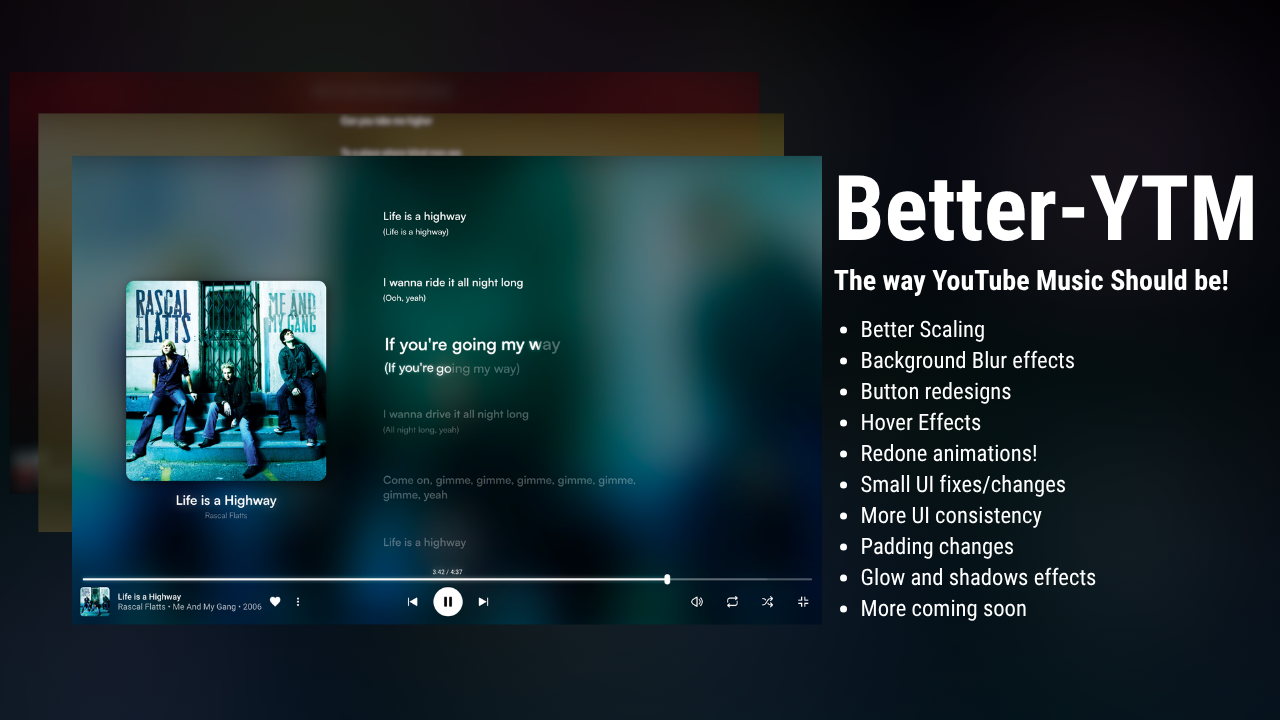
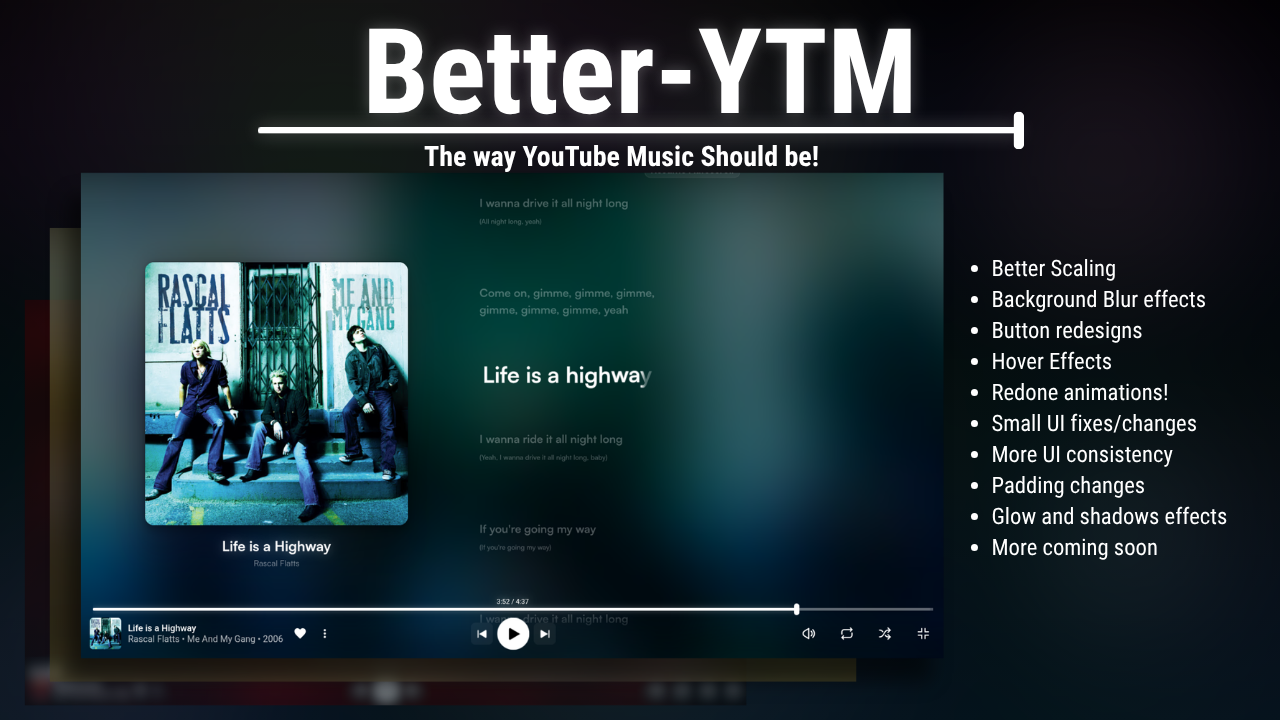
ver 2.2.0, more animations!

diff --git a/style.css b/style.css
@@ -1,4 +1,4 @@
-/* BETTER YTM 2.0!!! */
+/* Better YTM, A theme by WolftheE ^w^ */
 
 /* Hey there, feel free to edit this or use this theme as a base
 If you have any sugestions, tell me on discord. Just ping @wolfthee on the blyrics discord server!
@@ -8,9 +8,14 @@ Credits goes to
 https://github.com/ramansg/Minimal/tree/main
 https://github.com/tposejank/blyrics-am-theme
 https://github.com/chengggit/YouTube-Music-Dynamic-Theme
+
+
+
+Blyrics Varables */
+/*
+blyrics-line-synced-animation-delay = 100;
+blyrics-long-word-threshold = 1000;
 */
-
-
 
 :root {  
   
@@ -19,19 +24,26 @@ https://github.com/chengggit/YouTube-Music-Dynamic-Theme
 
   /*The glow effect used, change this or remove it if you like! Also the main button color*/ 
   --glow: rgba(255,255,255,0.35); 
-  --main-color: white;
-  --main-font-color: black;
+  --hover-color: white; /* This is used as the hover colour in some parts*/ 
+  --hover-font-color: black;
+  --radius: 10px;
+
+  --normal-button: rgba(255,255,255,0.1); 
 
   --alt-color: #f03;
+
+
+  --popup-background: rgba(255,255,255,0.15);
+
 
 
   /* blyrics config, feel free to edit this */
   --blyrics-footer-bg-color: transparent;
   --blyrics-footer-border-color: transparent;
   --blyrics-active-scale: 1.0;
-  --blyrics-scale: 0.55;
+  --blyrics-scale: 0.5;
   --blyrics-line-height: 1.5;
-  --blyrics-font-size: 3.5rem;
+  --blyrics-font-size: 4rem;
   --blyrics-font-weight: 650;
   --smaller-lyrics-size: 0.6em;
 
@@ -59,7 +71,7 @@ https://github.com/chengggit/YouTube-Music-Dynamic-Theme
 
 }
 /* ================================= */
-/* Blyrics css mods */
+/* Blyrics changes */
 /* ================================= */
 
 /* Cloud like animation */
@@ -93,7 +105,7 @@ https://github.com/chengggit/YouTube-Music-Dynamic-Theme
 }
 
 .blyrics--word.blyrics--animating { /* Holds the synced lyric on longer notes */
-  animation: blyrics-wobble max(calc(var(--blyrics-duration)), 0.7s) forwards ease; 
+  animation: blyrics-wobble calc(max(calc(var(--blyrics-duration)), 0.5s) * 1.2) forwards ease; 
   animation-delay: var(--blyrics-anim-delay);
 }
 
@@ -219,6 +231,23 @@ ytmusic-player-page:before { /* Cool blured background with Blyrics! */
 }
 
 /* =========== The Main part, the Album art ==================*/
+
+@keyframes grow-into-place {
+0% {
+    transform: translate3d(50%, 40%, 0) scale(.5);
+    opacity: .000001;
+}
+
+30% {
+    transform: translate3d(50%, 40%, 0) scale(.5);
+    opacity: .000001;
+}
+100% {
+    transform: translate3d(0, 0, 0) scale(1);
+    opacity: 1;
+}
+}
+
 ytmusic-player-page:not([is-mweb-modernization-enabled]):not([video-mode]) #player.ytmusic-player-page {
   max-width: 80% !important;
   box-shadow: 5px 5px 20px rgba(0,0,0,0.5);          
@@ -232,14 +261,40 @@ ytmusic-player[is-mweb-player-page-modernization-enabled]:not([video-mode]) {bor
   background: rgba(0,0,0,0.5); 
 }
 
+/* video toggle for the pay to win users - PS I can't fully test as I'm a broke user :( */
+.av-toggle.ytmusic-av-toggle {
+    height: 32px;
+    background-color: rgba(255,255,255,0.05);
+    border-radius: var(--radius) !important;
+}
+.song-button.ytmusic-av-toggle, .video-button.ytmusic-av-toggle {
+  border-radius: var(--radius) !important;
+  background-color: transparent;
+}
+.ytmusic-av-toggle[playback-mode=ATV_PREFERRED] .song-button.ytmusic-av-toggle {
+  background-color: rgba(255,255,255,0.15);
+}
+
 /* =========== Sidebar of the album ==================*/
 
+ytmusic-player-queue-item, ytmusic-responsive-list-item-renderer[height-style=MUSIC_RESPONSIVE_LIST_ITEM_HEIGHT_MEDIUM_COMPACT], ytmusic-responsive-list-item-renderer[is-playlist-detail-page], ytmusic-responsive-list-item-renderer[is-album-detail-page] {
+  transition: background-color 0.2s ease-out; /* Hover effect for songs */
+  border-radius: var(--radius);
+  padding: 4px 8px;
+
+  &:hover {
+    background-color: rgba(255,255,255,0.05);
+  }
+}
+
+
 ytmusic-responsive-list-item-renderer[play-button-state=paused], ytmusic-player-queue-item[play-button-state=loading], ytmusic-player-queue-item[play-button-state=playing], ytmusic-player-queue-item[play-button-state=paused] {
-  box-shadow: 3px 3px 8px rgba(0,0,0,0.5); /* Adds fancy selected song in the song tab*/
+  box-shadow: 3px 3px 8px rgba(0,0,0,0.2); /* Adds fancy selected song in the song tab*/
   overflow: visible;
   border-radius: 8px;
-  margin-right: 6px;
+  padding: 4px 8px;
 } 
+
 ytmusic-player-queue-item {border-bottom: none;} /*Removed border*/
 
 #tab-renderer { /* Fade out effect */
@@ -304,12 +359,36 @@ ytmusic-app-layout[is-bauhaus-sidenav-enabled] #mini-guide-background.ytmusic-ap
 ytmusic-app[is-bauhaus-sidenav-enabled] #guide-wrapper.ytmusic-app {
   background: rgba(0,0,0,0.3); 
   backdrop-filter: blur(20px);
+  transition: width 0.5s ease-out;
+  overflow: hidden;
 }
 #layout[player-ui-state="PLAYER_PAGE_OPEN"] #guide-wrapper{ /* ensure sidebar stays transparent with media player open */ backdrop-filter: none;}
 ytmusic-guide-entry-renderer[active] tp-yt-paper-item.ytmusic-guide-entry-renderer {box-shadow: 0px 4px 6px rgba(0,0,0,0.3);}
 #items.ytmusic-guide-section-renderer {padding: 6px !important;}
 
 ytmusic-guide-section-renderer {padding: 0;}
+
+tp-yt-paper-item.ytmusic-guide-entry-renderer {
+  border-radius: var(--radius);
+  transition: background-color 0.3s ease-out, scale 0.6s ease-out, color 0.3s ease-out, box-shadow 0.4s ease-in-out, scale 0.2s ease-out;
+}
+
+tp-yt-paper-item.ytmusic-guide-entry-renderer:active {
+  scale: 0.9;
+}
+
+tp-yt-paper-item.ytmusic-guide-entry-renderer:hover, ytmusic-guide-entry-renderer[active] tp-yt-paper-item.ytmusic-guide-entry-renderer:hover {
+  background-color: var(--hover-color);
+  color: var(--hover-font-color);
+
+  & * {
+    color: var(--hover-font-color) !important;
+  }
+}
+
+ytmusic-guide-entry-renderer[active] tp-yt-paper-item.ytmusic-guide-entry-renderer:hover {
+  box-shadow: 0px 5px 10px var(--glow);
+}
 
 /* Navbar */
 .search-container.ytmusic-search-box { /* Fixes some visual bugs with the search bar */ overflow: visible;}
@@ -340,6 +419,61 @@ ytmusic-nav-bar[is-bauhaus-sidenav-enabled] .center-content.ytmusic-nav-bar { /*
   width: 100vw;
 }
 
+ytmusic-search-box[opened]:has(ytmusic-search-suggestion) .search-box, ytmusic-search-box[opened]:has(ytmusic-responsive-list-item-renderer) .search-box, ytmusic-search-box[is-bauhaus-sidenav-enabled][opened] .search-box.ytmusic-search-box {
+  border-radius: var(--radius) var(--radius) 0 0 !important;  /* Make sure search bar follows border radius */
+  border: 1px solid rgba(255,255,255,0.15);
+  &:hover {
+    background-color: black !important;
+    color: white !important;
+  }
+}
+
+/* Search Dropdown List Container - Credit goes to Drago and his Lucid theme */
+ytmusic-search-box #suggestion-list {
+  border-radius: 0 0 var(--radius) var(--radius) !important; 
+  box-shadow: 0 20px 40px rgba(0, 0, 0, 0.7) !important;
+  padding: 0 !important; 
+  margin-top: 0 !important;
+  opacity: 0 !important; 
+  visibility: hidden !important;
+  transform: scaleY(0.25) !important; 
+  transform-origin: top !important; 
+  pointer-events: none !important; 
+  display: block !important;
+  transition: opacity 0.2s cubic-bezier(0.2, 0.8, 0.2, 1), transform 0.35s cubic-bezier(0.2, 0.8, 0.2, 1), visibility 0.2s !important;
+}
+
+ytmusic-search-box[opened]:has(ytmusic-search-suggestion) #suggestion-list, ytmusic-search-box[opened]:has(ytmusic-responsive-list-item-renderer) #suggestion-list {
+  opacity: 1 !important; 
+  visibility: visible !important;
+  transform: scaleY(1) !important; 
+  pointer-events: auto !important; 
+}
+
+ytmusic-search-box:not(:has(ytmusic-search-suggestion)):not(:has(ytmusic-responsive-list-item-renderer)) #suggestion-list { 
+  display: none !important; 
+}
+
+ytmusic-search-box #suggestion-list ytmusic-search-suggestions-section {
+  background: transparent !important; 
+  border: none !important; 
+  box-shadow: none !important; 
+  padding: 8px 0 !important; 
+}
+
+ytmusic-search-suggestion:hover, 
+ytmusic-search-suggestion[selected], 
+ytmusic-search-box #suggestion-list ytmusic-responsive-list-item-renderer:hover {
+  background-color: var(--hover-color) !important;
+  color: var(--hover-font-color) !important;
+
+  & * {
+    color: var(--hover-font-color);
+  }
+}
+
+
+
 ytmusic-nav-bar[is-bauhaus-sidenav-enabled][is-search-page] .center-content.ytmusic-nav-bar { /* Center Search bar */ 
     position: absolute;
     width: 100%;
@@ -348,9 +482,20 @@ ytmusic-nav-bar[is-bauhaus-sidenav-enabled][is-search-page] .center-content.ytmu
     transform: none;
     padding-left: 0;
 }
+
+ytmusic-search-suggestion, 
+ytmusic-search-box #suggestion-list ytmusic-responsive-list-item-renderer {
+  background: transparent !important; 
+  border-radius: 8px !important; 
+  margin: 0 8px !important; 
+  transition: background-color 0.2s ease !important;
+}
+
+
+
 ytmusic-nav-bar[is-bauhaus-sidenav-enabled] {justify-content: space-between;}
 
-ytmusic-tabs.stuck {
+ytmusic-tabs.stuck { /* fix tab bar when searching on ytm */
     transition: transform 0.5s ease-out;
     background-color: rgba(255,255,255,0.0);
     border-radius: 8px;
@@ -400,8 +545,8 @@ ytmusic-player-bar[is-web-delhi-icons-enabled] .left-controls.ytmusic-player-bar
 .play-pause-button { /* Make the Play button diffrent */
   width: 52px !important;
   height: 52px !important;
-  background: var(--main-color) !important;
-  color: var(--main-font-color) !important;
+  background: var(--hover-color) !important;
+  color: var(--hover-font-color) !important;
   border-radius: 50% !important;
   & button {scale: 0.8;}
 }
@@ -430,8 +575,8 @@ ytmusic-player-bar[is-web-delhi-icons-enabled] yt-icon-button.ytmusic-player-bar
     border-radius: 8px;
     box-shadow: 0px 0px 15px var(--glow);
     scale: 1.1;
-    color: var(--main-font-color) !important;
-    background: var(--main-color) !important;
+    color: var(--hover-font-color) !important;
+    background: var(--hover-color) !important;
   }
 
   &:active {scale: 0.9;}
@@ -494,17 +639,17 @@ ytmusic-nav-bar[is-bauhaus-sidenav-enabled] .right-content.ytmusic-nav-bar {padd
 /* Buttons and Context Menus */
 /* ================================= */
 
-ytmusic-chip-cloud-chip-renderer[chip-style=STYLE_LARGE_TRANSLUCENT_AND_SELECTED_WHITE] a.ytmusic-chip-cloud-chip-renderer,.yt-spec-button-shape-next--mono.yt-spec-button-shape-next--tonal, ytmusic-chip-cloud-chip-renderer[chip-style=STYLE_UNKNOWN] a.ytmusic-chip-cloud-chip-renderer, ytmusic-chip-cloud-chip-renderer[chip-style=STYLE_DEFAULT] a.ytmusic-chip-cloud-chip-renderer, ytmusic-chip-cloud-chip-renderer[chip-style=STYLE_ICON_SECOND] a.ytmusic-chip-cloud-chip-renderer, ytmusic-search-box[is-bauhaus-sidenav-enabled]:not([opened]):not([has-query]) .search-box.ytmusic-search-box, .yt-spec-button-shape-next--size-m.yt-spec-button-shape-next--outline, yt-icon-button.ytmusic-carousel-shelf-renderer, button.ytmusic-sort-filter-button-renderer {
-  border-radius: 8px !important;
-  background-color: rgba(255, 255, 255, .1);
-  border: none ;
+ytmusic-chip-cloud-chip-renderer[chip-style=STYLE_LARGE_TRANSLUCENT_AND_SELECTED_WHITE] a.ytmusic-chip-cloud-chip-renderer,.yt-spec-button-shape-next--mono.yt-spec-button-shape-next--tonal, ytmusic-chip-cloud-chip-renderer[chip-style=STYLE_UNKNOWN] a.ytmusic-chip-cloud-chip-renderer, ytmusic-chip-cloud-chip-renderer[chip-style=STYLE_DEFAULT] a.ytmusic-chip-cloud-chip-renderer, ytmusic-chip-cloud-chip-renderer[chip-style=STYLE_ICON_SECOND] a.ytmusic-chip-cloud-chip-renderer, ytmusic-search-box[is-bauhaus-sidenav-enabled]:not([opened]):not([has-query]) .search-box.ytmusic-search-box, .yt-spec-button-shape-next--size-m.yt-spec-button-shape-next--outline, yt-icon-button.ytmusic-carousel-shelf-renderer, button.ytmusic-sort-filter-button-renderer, ytmusic-search-box[is-bauhaus-sidenav-enabled] .search-box.ytmusic-search-box {
+  border-radius: var(--radius) !important;
+  background-color: rgba(255, 255, 255, 0.1);
+  border: none;
   transition: background-color 0.5s ease-out, color 0.5s ease-out, scale 0.3s ease-out;
   overflow: visible !important;
   box-shadow: 3px 3px 5px rgba(0,0,0,0.2);
   will-change: background-color, scale, color;
   &:hover {
-    background-color: var(--main-color) !important;
-    color: var(--main-font-color) !important;
+    background-color: var(--hover-color) !important;
+    color: var(--hover-font-color) !important;
     transition: background-color 0.2s ease-out, color 0.2s ease-out, scale 0.2s ease-out;
   }
   &:active {scale: 0.95;}
@@ -544,10 +689,21 @@ tp-yt-paper-item.ytmusic-menu-service-item-download-renderer {--paper-item-min-h
 ytmusic-browse-response[has-background]:not([disable-gradient]) .background-gradient.ytmusic-browse-response {border-top: 1px solid rgba(255,255,255,0.15);}
 .category-menu-item.iron-selected.ytmusic-settings-page {background: rgba(255,255,255,0.1) !important;}
 
+ytmusic-search-box[has-query] input.ytmusic-search-box, ytmusic-search-box[opened] input.ytmusic-search-box {
+    color: unset; /* fixes some visual bugs */
+}
 
 /* ================================= */
 /* Homepage stuff */
 /* ================================= */
+
+#content-wrapper.ytmusic-browse-response {
+    transition: margin 0.5s ease-in-out; /* Transtion for sidebar movement */
+}
+
+ytmusic-two-row-item-renderer[aspect-ratio=MUSIC_TWO_ROW_ITEM_THUMBNAIL_ASPECT_RATIO_SQUARE] .image-wrapper.ytmusic-two-row-item-renderer {
+    border-radius: var(--radius); /* Fix overlapping issues, also easily change the corner rounding */
+}
 
 ytmusic-browse-response[has-background]:not([disable-gradient]) .background-gradient.ytmusic-browse-response {background-image: none; /* Removes repeating images on background*/}
 
@@ -574,15 +730,22 @@ ytmusic-immersive-header-renderer[is-bauhaus-sidenav-enabled] .image.ytmusic-imm
 /* ================================= */
 /* Album covers */
 /* ================================= */
+
+/* Hover on album effect*/
+ytmusic-two-row-item-renderer ytmusic-thumbnail-renderer #image { overflow: hidden !important; }
+ytmusic-two-row-item-renderer ytmusic-thumbnail-renderer #image img { transition: transform 0.8s cubic-bezier(0.2, 0.8, 0.2, 1), filter 0.4s; }
+ytmusic-two-row-item-renderer:hover ytmusic-thumbnail-renderer #image img {
+  transform: scale(1.04) !important;
+  filter: brightness(0.5);
+}
+
+
 ytmusic-item-thumbnail-overlay-renderer[display-style=MUSIC_ITEM_THUMBNAIL_OVERLAY_DISPLAY_STYLE_HOVER] #play-button.ytmusic-item-thumbnail-overlay-renderer, #background.ytmusic-item-thumbnail-overlay-renderer, ytmusic-item-thumbnail-overlay-renderer>:not(.ytmusic-item-thumbnail-overlay-renderer) {
-  transition: opacity 0.2s ease-out;
+  transition: opacity 0.4s ease-out; /* Overlay transition */
   border-radius: inherit;
 }
 
-ytmusic-thumbnail-renderer[thumbnail-crop=MUSIC_THUMBNAIL_CROP_CIRCLE] .image.ytmusic-thumbnail-renderer {
-  transition: filter 0.3s ease-out;
-  &:hover {filter: brightness(0.75);}
-}
+
 .content-wrapper.ytmusic-play-button-renderer {
   transition: transform .2s cubic-bezier(.2, 0, .6, 1), box-shadow .2s cubic-bezier(.2, 0, .6, 1);
   background-color: white;

diff --git a/README.md b/README.md
@@ -39,9 +39,12 @@ The way YouTube Music should have been
 This theme works best with the album art background enabled.
 If using a laptop, disable Show stylized animations to save power.
 
-## This version changelog - ver 2.1.1!
-- Fix bugs with the search page
-
+## This version changelog - ver 2.2.0!
+- Big but nothing major
+- Made more buttons match the theme
+- Added some animations like dropdown search
+- Hover tweaks
+- Fixed small visual bugs
 
 <div display="flex">
   <img src="images/2.png">

diff --git a/DESCRIPTION.md b/DESCRIPTION.md
@@ -18,5 +18,9 @@ The way YouTube Music should have been
 This theme works best with the album art background enabled.
 If using a laptop, disable Show stylized animations to save power.
 
-## This version changelog - ver 2.1.1!
-- Fix bugs with the search page
+## This version changelog - ver 2.2.0!
+- Big but nothing major
+- Made more buttons match the theme
+- Added some animations like dropdown search
+- Hover tweaks
+- Fixed small visual bugs
